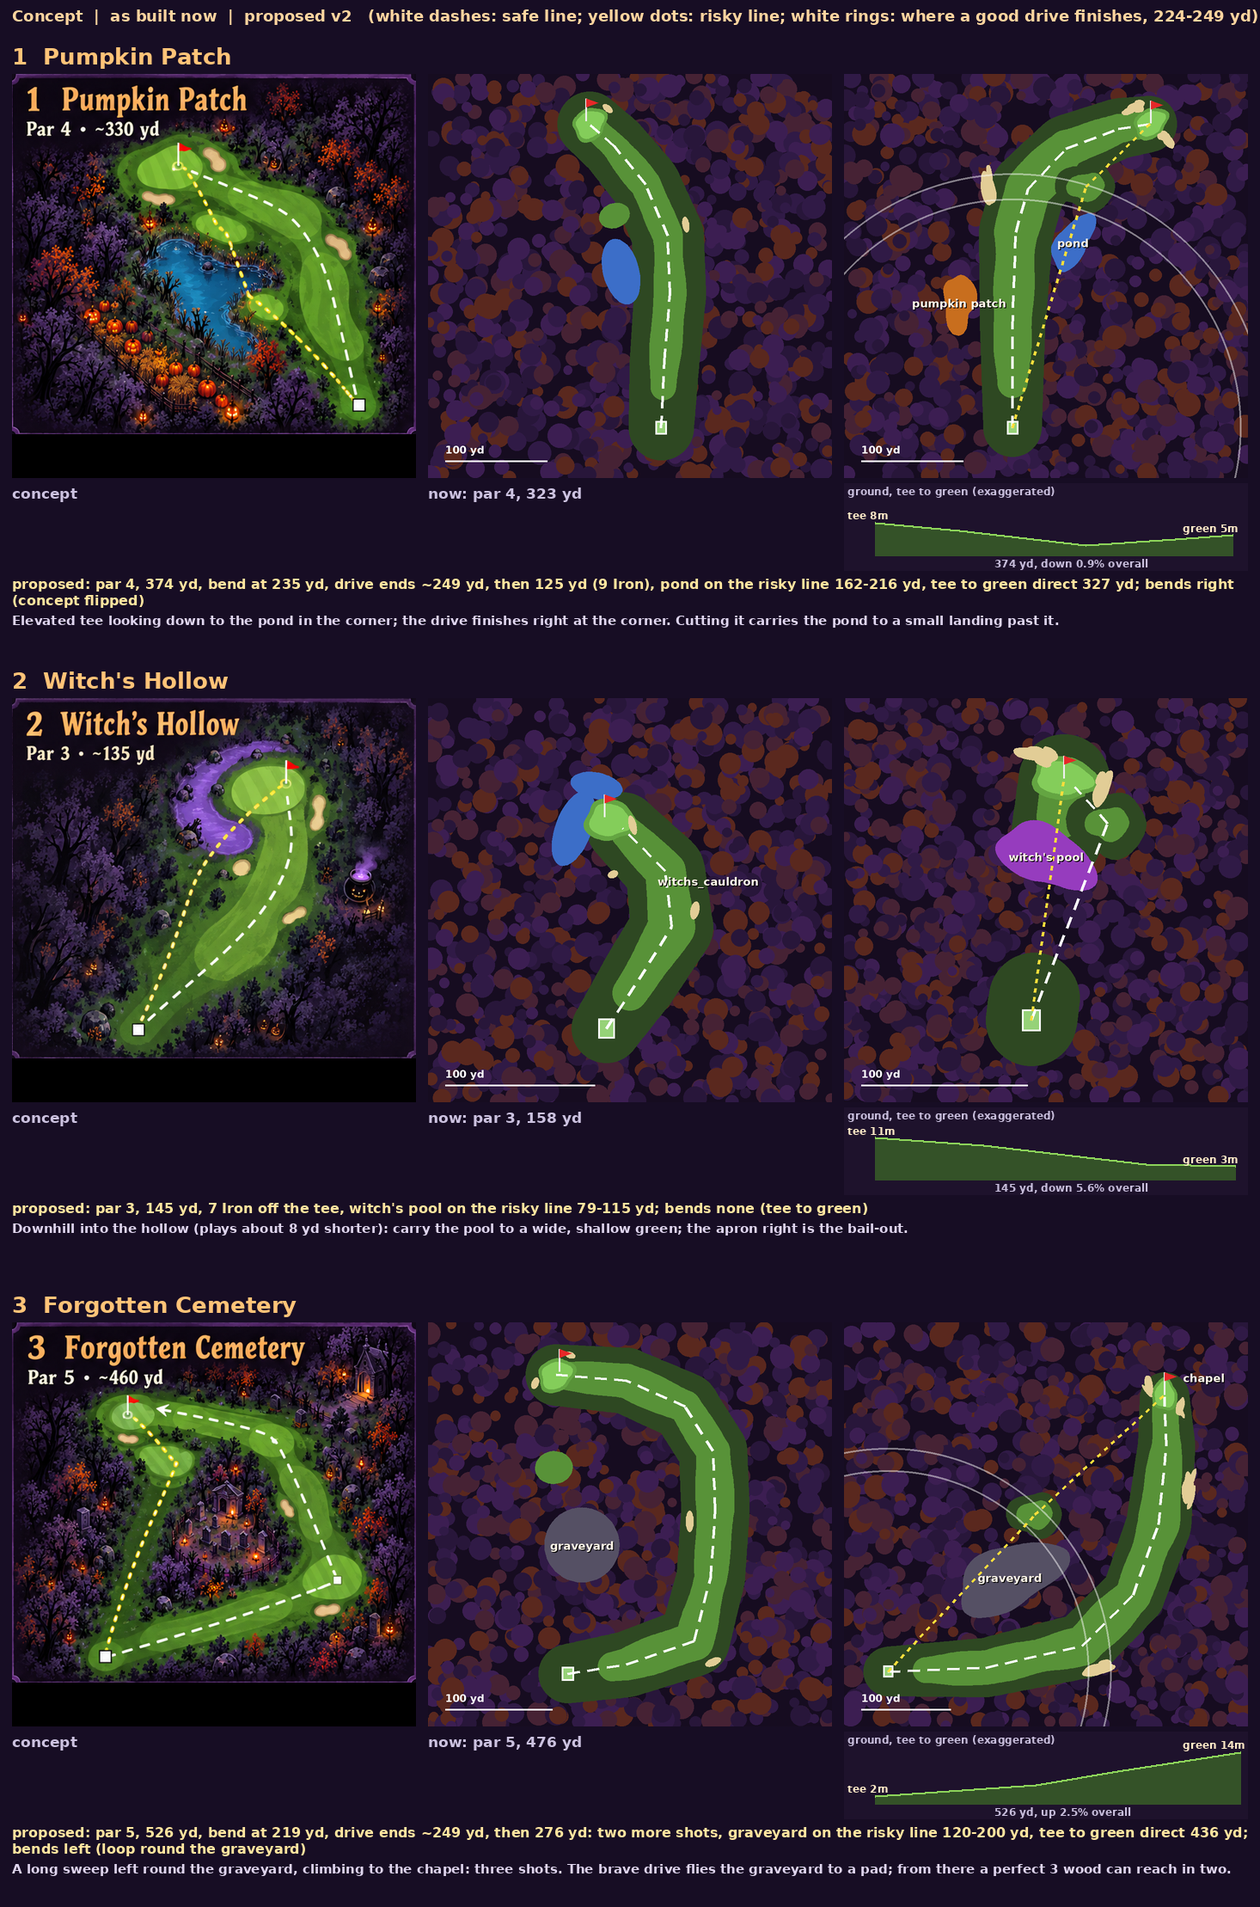
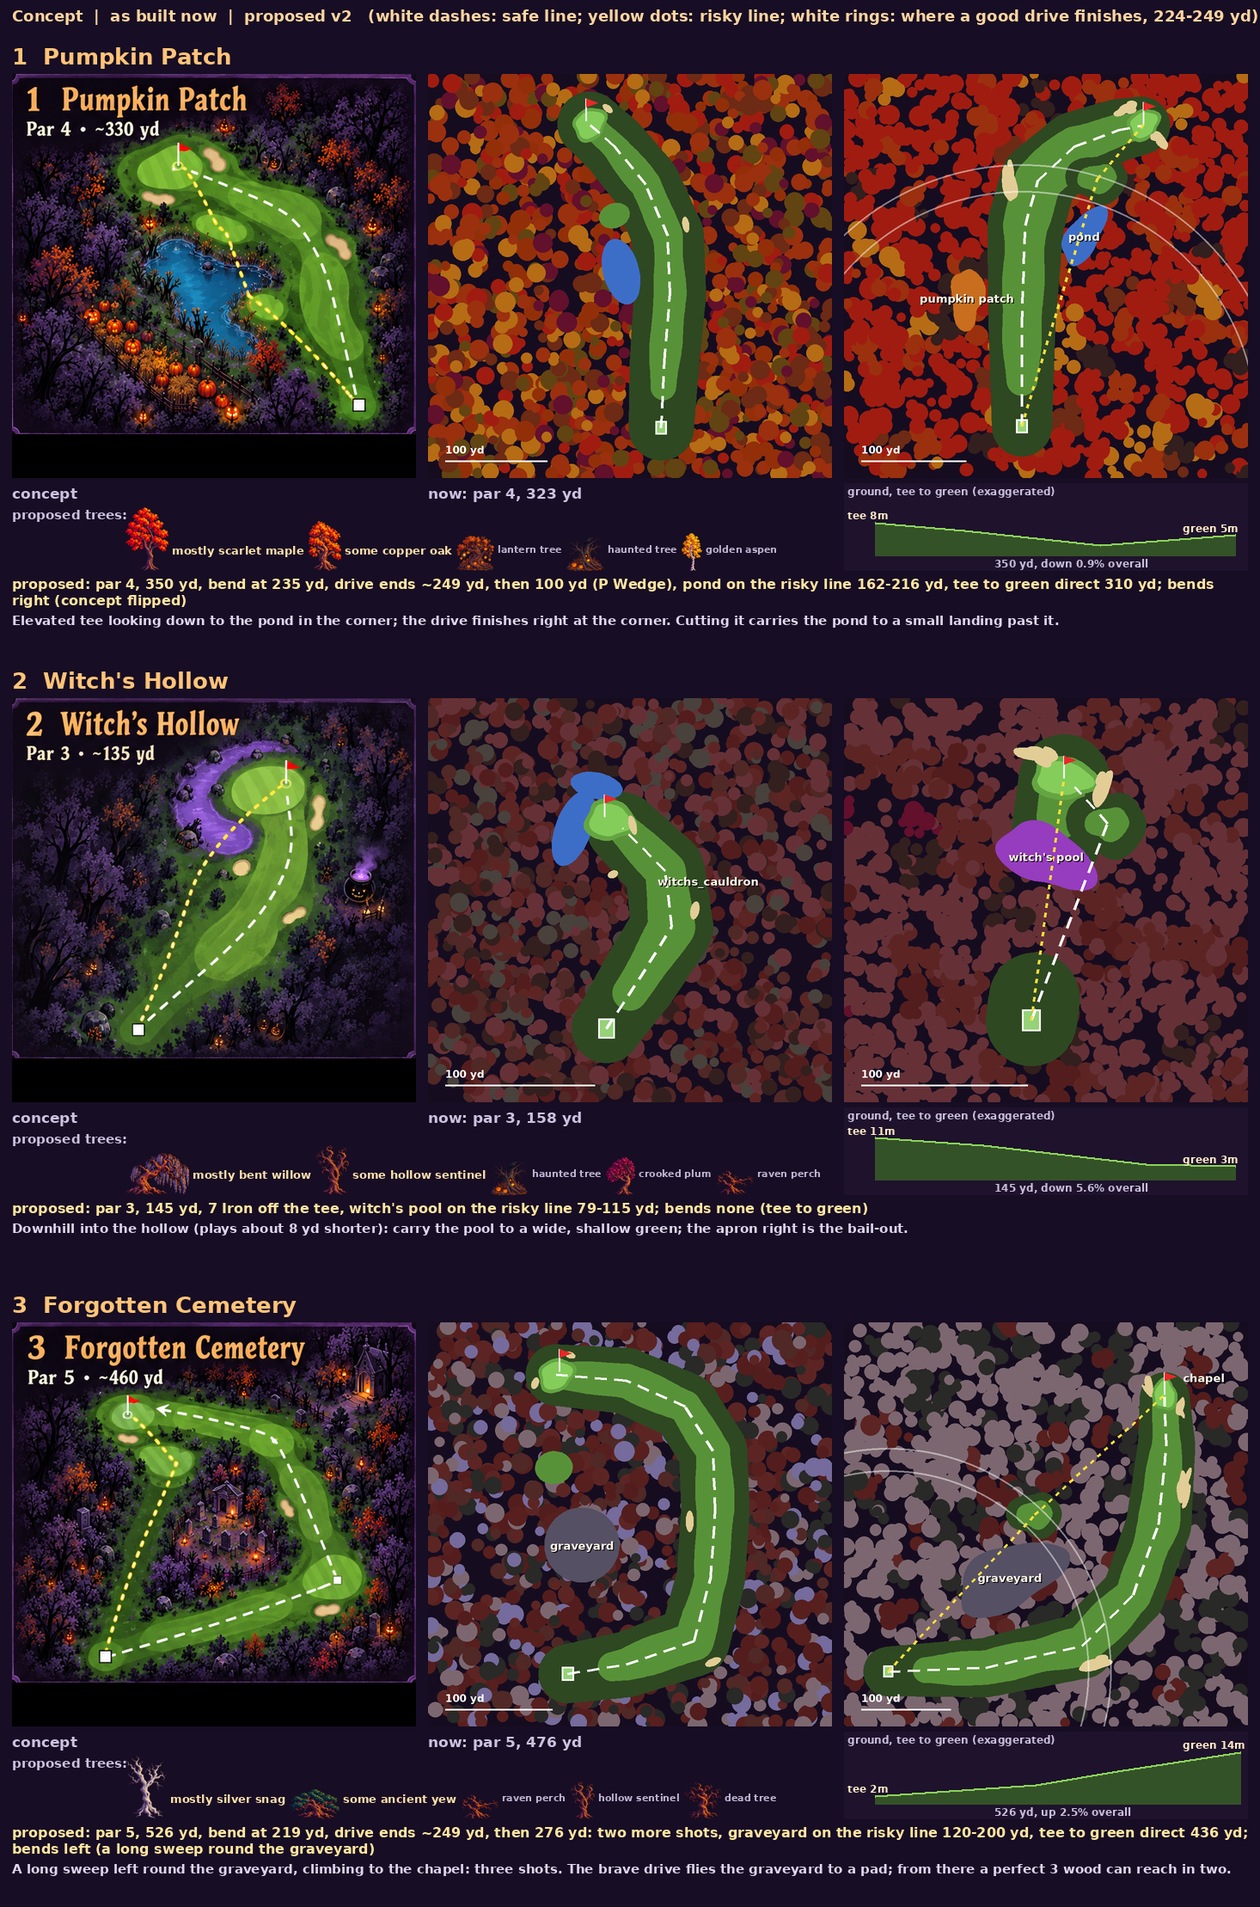
Hole plan v2, second check: par lengths varied, bunkers in play, greens sized to the approach, a dominant tree per hole
Claude-Session: https://claude.ai/code/session_01VAUjUguVX6tbdgmz3FqzWB

diff --git a/golf/tools/plan_holes2.py b/golf/tools/plan_holes2.py
@@ -2,6 +2,7 @@
 now, and the proposal (irregular hazards at real sizes, the band where a good drive finishes, the risky
 carries), with a side view of its ground from tee to green and the measured facts.
 usage: python3 -I plan_holes2.py <golf dir> <out dir>"""
+import json
 import math
 import os
 import random
@@ -13,7 +14,7 @@ sys_argv = list(sys.argv)
 sys.argv = ["x"]
 import plan_holes as P  # noqa: E402
 import check_plan as C  # noqa: E402,F401  (club helpers)
-GOLF, OUT = sys_argv[1], sys_argv[2]
+GOLF, OUT = (sys_argv[1], sys_argv[2]) if len(sys_argv) > 2 else (None, None)
 P.GOLF = GOLF
 
 YD = 1.0936
@@ -67,15 +68,15 @@ POND, PURPLE, BLOOD, MARSH, WEB, CORN, PATCH, GRAVE, HEDGE, RAVINE = P.POND, P.P
 # Greenside bunkers ~20-26 yd x 8-10 yd, fairway bunkers ~30-38 yd x 12 yd (real sizes).
 PLAN = {
     1: {"par": 4, "turn": "right (concept flipped)",
-        "path": [[0, 0], [0, 90], [3, 175], [14, 214], [48, 250], [95, 268], [122, 272]],
+        "path": [[0, 0], [0, 90], [3, 175], [14, 214], [46, 244], [84, 258], [104, 262]],
         "widths": [26, 32, 40, 40, 34, 28, 24], "fairway_start": 40,
-        "green": g([124, 273], [13, 10], 0.4),
-        "bunkers": [g([-22, 214], [6, 16], 0.15), g([108, 286], [10, 4], 0.35), g([139, 258], [9, 4], -0.9)],
+        "green": g([106, 263], [12, 10], 0.4),
+        "bunkers": [g([-11, 211], [6, 16], 0.15), g([90, 276], [10, 4], 0.35), g([121, 249], [9, 4], -0.9)],
         "hazards": [g([54, 166], [26, 15], 1.1, color=POND, label="pond"),
                     g([-48, 112], [14, 26], 0.1, color=PATCH, label="pumpkin patch")],
         "pads": [{"center": [66, 216], "radius": [17, 12], "rotation": 0.5}],
-        "risk": [[0, 0], [66, 216], [124, 273]],
-        "elev": [[0, 8.0], [80, 6.0], [200, 2.5], [285, 4.0], [340, 5.0]],
+        "risk": [[0, 0], [66, 216], [106, 263]],
+        "elev": [[0, 8.0], [80, 6.0], [200, 2.5], [270, 4.0], [320, 5.0]],
         "note": "Elevated tee looking down to the pond in the corner; the drive finishes right at the corner. "
                 "Cutting it carries the pond to a small landing past it."},
     2: {"par": 3, "turn": "none (tee to green)",
@@ -88,11 +89,11 @@ PLAN = {
         "elev": [[0, 11.0], [40, 9.0], [100, 4.0], [133, 3.5]],
         "note": "Downhill into the hollow (plays about 8 yd shorter): carry the pool to a wide, shallow green; "
                 "the apron right is the bail-out."},
-    3: {"par": 5, "turn": "left (loop round the graveyard)",
+    3: {"par": 5, "turn": "left (a long sweep round the graveyard)",
         "path": [[0, 0], [100, 4], [198, 26], [250, 78], [276, 150], [284, 230], [282, 280]],
         "widths": [24, 34, 40, 38, 40, 32, 24], "fairway_start": 38,
         "green": g([282, 282], [13, 10], 1.4),
-        "bunkers": [g([214, 2], [16, 6], 0.25), g([306, 186], [6, 16], 0.05), g([266, 292], [4, 10], 0.1),
+        "bunkers": [g([211, 7], [16, 6], 0.25), g([301, 187], [6, 16], 0.05), g([266, 292], [4, 10], 0.1),
                     g([298, 270], [4, 9], -0.2)],
         "hazards": [g([124, 96], [54, 34], 0.55, color=GRAVE, label="graveyard")],
         "pads": [{"center": [150, 160], "radius": [18, 14], "rotation": 0.6}],
@@ -105,31 +106,31 @@ PLAN = {
         "path": [[0, 0], [-2, 80], [-2, 170], [12, 212], [52, 232], [112, 238], [150, 240]],
         "widths": [24, 32, 40, 40, 34, 28, 24], "fairway_start": 36,
         "green": g([152, 241], [12, 10], 0.2),
-        "bunkers": [g([-28, 204], [6, 16], 0.15), g([134, 228], [10, 4], 0.35), g([168, 254], [9, 4], -0.6)],
+        "bunkers": [g([-16, 200], [6, 16], 0.15), g([134, 228], [10, 4], 0.35), g([168, 254], [9, 4], -0.6)],
         "hazards": [g([66, 122], [42, 52], 0.35, color=WEB, label="the web")],
         "risk": [[0, 0], [104, 226], [152, 241]],
         "elev": [[0, 3.0], [200, 7.0], [357, 10.5]],
         "note": "The L from the concept with the corner where a drive finishes; flying the web's corner is a "
                 "full carry."},
     5: {"par": 5, "turn": "right, then a little left (S)",
-        "path": [[0, 0], [12, 100], [40, 196], [95, 246], [132, 306], [142, 372], [168, 436]],
+        "path": [[0, 0], [12, 100], [40, 196], [95, 246], [132, 306], [142, 372], [160, 418]],
         "widths": [24, 34, 42, 38, 42, 32, 24], "fairway_start": 40,
-        "green": g([170, 437], [13, 10], -0.3),
-        "bunkers": [g([150, 428], [10, 4], 0.9), g([187, 450], [9, 4], -0.4), g([44, 232], [6, 16], -0.8),
-                    g([162, 330], [6, 15], 0.1)],
+        "green": g([162, 420], [12, 10], -0.3),
+        "bunkers": [g([144, 411], [10, 4], 0.9), g([180, 433], [9, 4], -0.4), g([44, 232], [6, 16], -0.8),
+                    g([158, 331], [6, 15], 0.1)],
         "hazards": [g([88, 330], [22, 46], -0.3, color=CORN, label="corn maze")],
-        "features": [{"pos": [192, 476], "label": "barn"}],
-        "elev": [[0, 8.0], [100, 6.0], [240, 2.0], [360, 4.0], [476, 6.5]],
+        "features": [{"pos": [186, 458], "label": "barn"}],
+        "elev": [[0, 8.0], [100, 6.0], [240, 2.0], [360, 4.0], [462, 6.5]],
         "note": "Three shots down the long diagonal through the farm: a bend at the drive, then the corn "
                 "maze all down the left of the second shot and the barn behind the green."},
     6: {"par": 3, "turn": "none (tee to green)",
         "path": [[0, 0], [-18, 158]], "widths": [24, 24], "fairway_start": 138,
-        "green": g([-18, 159], [13, 10], 0.3),
+        "green": g([-18, 159], [10, 14], 0.1),
         "bunkers": [g([-36, 170], [10, 4], 0.6), g([2, 172], [9, 4], -0.5)],
         "hazards": [{"line": [[-120, 70], [-80, 104], [-40, 118], [-6, 124], [16, 134]], "width": 18,
                      "color": MARSH, "label": "marsh"}],
-        "pads": [{"center": [34, 146], "radius": [12, 9], "rotation": -0.4}],
-        "risk": [[0, 0], [-18, 159]], "safe": [[0, 0], [36, 126], [32, 144]],
+        "pads": [{"center": [12, 160], "radius": [10, 8], "rotation": 0.2}],
+        "risk": [[0, 0], [-18, 159]], "safe": [[0, 0], [30, 126], [12, 158]],
         "elev": [[0, 7.0], [60, 4.0], [110, 2.2], [158, 2.6]],
         "note": "Downhill over the marsh, which crosses in front of the green from the left (hole 2's water is "
                 "on the right); a long iron to a bail-out apron right."},
@@ -137,7 +138,7 @@ PLAN = {
         "path": [[0, 0], [5, 80], [10, 160], [-6, 220], [-52, 262], [-100, 278]],
         "widths": [24, 32, 40, 38, 30, 24], "fairway_start": 34,
         "green": g([-102, 280], [13, 10], 0.4),
-        "bunkers": [g([-86, 296], [10, 4], -0.4), g([-120, 264], [9, 4], 0.9), g([30, 196], [6, 16], -0.2)],
+        "bunkers": [g([-86, 296], [10, 4], -0.4), g([-120, 264], [9, 4], 0.9), g([24, 195], [6, 16], -0.2)],
         "hazards": [g([-38, 180], [18, 26], 0.35, color=BLOOD, label="blood pond"),
                     g([80, 170], [24, 80], 0.0, color=HEDGE, label="hedge maze")],
         "features": [{"pos": [-120, 324], "label": "mansion"}],
@@ -146,31 +147,72 @@ PLAN = {
         "note": "Uphill dogleg left to the mansion; the blood pond fills the corner, so cutting it is a near-"
                 "full carry; the hedge maze lines the right."},
     8: {"par": 4, "turn": "straight, split fairway",
-        "path": [[0, 0], [8, 90], [22, 175], [34, 240], [40, 300], [30, 372]],
+        "path": [[0, 0], [8, 90], [22, 175], [34, 240], [40, 300], [34, 394]],
         "widths": [24, 34, 42, 34, 32, 24], "fairway_start": 36,
-        "extra_fairways": [[[[6, 110], [-26, 190], [-30, 270], [16, 362]], [28, 30, 28, 24]]],
-        "green": g([30, 374], [12, 10], -0.2),
-        "bunkers": [g([14, 386], [10, 4], 0.4), g([46, 362], [9, 4], -0.6), g([60, 200], [6, 15], 0.1)],
+        "extra_fairways": [[[[6, 110], [-26, 190], [-30, 270], [18, 384]], [28, 30, 28, 24]]],
+        "green": g([34, 396], [11, 15], -0.1),
+        "bunkers": [g([16, 404], [4, 10], 0.1), g([52, 388], [4, 10], -0.2), g([49, 202], [6, 15], 0.1)],
         "hazards": [{"line": [[-150, 322], [-60, 296], [0, 280], [60, 262], [160, 232]], "width": 22,
                      "color": RAVINE, "label": "ravine"}],
         "features": [{"pos": [-92, 326], "label": "Horseman"}],
-        "risk": [[0, 0], [-24, 190], [-28, 270], [30, 374]],
-        "elev": [[0, 9.0], [200, 6.0], [262, 3.5], [300, 6.0], [379, 10.0]],
-        "note": "The ravine crosses beyond a drive's reach (~295 yd), so you lay up and carry it with the "
-                "second; the left fairway is shorter but narrower, past the Horseman."},
+        "risk": [[0, 0], [-24, 190], [-28, 270], [34, 396]],
+        "elev": [[0, 9.0], [200, 6.5], [255, 4.5], [275, 3.5], [300, 6.0], [400, 10.0]],
+        "note": "The long par 4. The ravine crosses beyond a drive's reach (~300 yd), so you lay up and carry it "
+                "with a long iron to the biggest green; the left fairway is narrower, past the Horseman."},
     9: {"par": 4, "turn": "hard left (horseshoe)",
         "path": [[0, 0], [45, 65], [88, 128], [104, 182], [86, 226], [46, 246], [8, 242]],
         "widths": [24, 32, 40, 38, 32, 28, 24], "fairway_start": 34,
         "green": g([6, 243], [13, 10], 0.1),
-        "bunkers": [g([-10, 232], [9, 4], 0.9), g([18, 258], [10, 4], -0.2), g([126, 150], [6, 16], 0.2)],
-        "hazards": [g([28, 150], [24, 42], -0.2, color=PATCH, label="pumpkin patch")],
-        "pads": [{"center": [14, 204], "radius": [15, 11], "rotation": 0.1}],
+        "bunkers": [g([-10, 232], [9, 4], 0.9), g([18, 258], [10, 4], -0.2), g([119, 152], [6, 16], 0.2)],
+        "hazards": [g([28, 158], [24, 44], -0.2, color=PATCH, label="pumpkin patch")],
+        "pads": [{"center": [16, 212], "radius": [12, 9], "rotation": 0.1}],
         "features": [{"pos": [-4, 284], "label": "home"}],
-        "risk": [[0, 0], [14, 204], [6, 243]],
+        "risk": [[0, 0], [16, 212], [6, 243]],
         "elev": [[0, 12.0], [120, 8.0], [210, 5.0], [342, 7.5]],
         "note": "From a high tee the safe drive goes right round the patch, then a short iron back left to "
                 "the green by the house. The brave drive flies the patch to a landing just short of the green."},
 }
+
+
+# Trees: the dominant kind sets the hole's look (about 6 in 10, standing in groves), a second kind
+# about 1 in 4, accents for the rest; the far woods follow the same mix with a conifer behind.
+TREES = {
+    1: ("tree_scarlet_maple", "tree_copper_oak", ["lantern_tree", "haunted_tree", "tree_golden_aspen"]),
+    2: ("tree_bent_willow", "tree_hollow_sentinel", ["haunted_tree", "tree_crooked_plum", "tree_raven_perch"]),
+    3: ("tree_silver_snag", "tree_ancient_yew", ["tree_raven_perch", "tree_hollow_sentinel", "dead_tree"]),
+    4: ("tree_moonlit_pine", "pine_blue", ["tree_ghost_birch", "dead_tree", "tree_hollow_sentinel"]),
+    5: ("tree_harvest_pear", "apple_tree", ["tree_copper_oak", "maple_orange", "tree_golden_aspen"]),
+    6: ("tree_twisted_cypress", "tree_bent_willow", ["dead_tree", "tree_raven_perch", "tree_ghost_birch"]),
+    7: ("tree_crooked_plum", "tree_ancient_yew", ["tree_twisted_cypress", "tree_hollow_sentinel", "tree_scarlet_maple"]),
+    8: ("tree_lightning_oak", "tree_windbent_fir", ["dead_tree", "tree_raven_perch", "tree_silver_snag"]),
+    9: ("tree_golden_aspen", "maple_orange", ["lantern_tree", "birch", "tree_copper_oak"]),
+}
+CARDS = None
+_COL = {}
+
+
+def tree_colour(name):
+    """The average colour of a tree card's crown (its top two thirds), for the map."""
+    if name not in _COL:
+        im = Image.open(os.path.join(CARDS, name + ".png")).convert("RGBA")
+        im = im.crop((0, 0, im.width, im.height * 2 // 3)).resize((40, 40))
+        px = [p[:3] for p in im.get_flattened_data() if p[3] > 200]
+        _COL[name] = tuple(int(sum(c[k] for c in px) / len(px) * 0.8) for k in range(3))
+    return _COL[name]
+
+
+def now_trees(i):
+    th = json.load(open(os.path.join(GOLF, "courses", "holes", P.FILES[i])))["theme"]
+    return th["trees_near"]
+
+
+def grove_pick(i, x, y, rnd):
+    """Which tree stands at (x, y) on the proposed hole: groves (about 25 m across) of one kind."""
+    dom, sec, acc = TREES[i]
+    gx, gy = math.floor(x / 25.0), math.floor(y / 25.0)
+    r = random.Random(gx * 7919 + gy * 104729 + i).random()
+    kind = dom if r < 0.6 else (sec if r < 0.85 else acc[int(r * 1000) % len(acc)])
+    return kind if rnd.random() < 0.85 else dom
 
 
 def carry_over(line, hazard):
@@ -234,7 +276,7 @@ def facts(p):
     return ", ".join(out)
 
 
-def draw(spec, title, proposal):
+def draw(spec, title, proposal, hole=None):
     pts = list(spec["path"])
     for h in spec.get("hazards", []):
         pts += P.ellipse_pts(h["center"], h["radius"], h.get("rotation", 0)) if "center" in h else h["line"]
@@ -252,10 +294,16 @@ def draw(spec, title, proposal):
     img = Image.new("RGB", (S, S), (22, 12, 32))
     d = ImageDraw.Draw(img, "RGBA")
     rnd = random.Random(hash(title) & 0xffff)
-    for _ in range(int(S * S / 900)):
+    pool = now_trees(hole) if hole and not proposal else None
+    for _ in range(int(S * S / 700)):
         x, y = rnd.uniform(0, S), rnd.uniform(0, S)
-        r = rnd.uniform(5, 14) * SS
-        d.ellipse([x - r, y - r, x + r, y + r], fill=rnd.choice([(48, 26, 70), (60, 30, 82), (40, 22, 58), (90, 40, 30), (70, 34, 52)]))
+        r = rnd.uniform(5, 12) * SS
+        if hole is None:
+            col = rnd.choice([(48, 26, 70), (60, 30, 82), (40, 22, 58), (90, 40, 30), (70, 34, 52)])
+        else:
+            wx, wy = (x - S / 2) / k + cx, (S / 2 - y) / k + cy
+            col = tree_colour(grove_pick(hole, wx, wy, rnd) if proposal else rnd.choice(pool))
+        d.ellipse([x - r, y - r, x + r, y + r], fill=col)
     rough = spec.get("rough", 13)
     fairways = [(spec["path"], spec["widths"], spec.get("fairway_start", 34), True)] + \
         [(fp, fw, 0, False) for fp, fw in spec.get("extra_fairways", [])]
@@ -380,6 +428,8 @@ def profile(p, w, h):
 
 
 def main():
+    global CARDS
+    CARDS = os.path.join(GOLF, "game", "assets", "cards")
     P.main.__globals__["GOLF"] = GOLF
     A = Image.open(os.path.join(GOLF, "art_src/redesign/08_Course_Layout_Concepts/Revised_Holes_2_4_6_9_Concepts_v1.png")).convert("RGB")
     B = Image.open(os.path.join(GOLF, "art_src/redesign/08_Course_Layout_Concepts/Revised_Holes_1_3_5_7_Concepts_v1.png")).convert("RGB")
@@ -392,8 +442,8 @@ def main():
     for i in range(1, 10):
         now = P.current(P.FILES[i])
         p = PLAN[i]
-        img_now = draw(now, "now%d" % i, False)
-        img_new = draw(p, "new%d" % i, True)
+        img_now = draw(now, "now%d" % i, False, i)
+        img_new = draw(p, "new%d" % i, True, i)
         gap, head, prof_h, foot = 14, 46, 110, 100
         row = Image.new("RGB", (3 * PX + 4 * gap, PX + head + prof_h + foot), (23, 13, 36))
         d = ImageDraw.Draw(row)
@@ -406,6 +456,19 @@ def main():
         d.text((gap, head + PX + 8), "concept", fill=(205, 195, 225), font=font(17))
         d.text((2 * gap + PX, head + PX + 8), "now: par %d, %d yd" % (now["par"], P.length(now["path"]) * YD),
                fill=(205, 195, 225), font=font(17))
+        dom, sec, acc = TREES[i]
+        x = gap
+        d.text((x, head + PX + 34), "proposed trees:", fill=(205, 195, 225), font=font(15))
+        x += 132
+        for n, (name, h, tag) in enumerate([(dom, 74, "mostly"), (sec, 58, "some")] + [(a, 44, "") for a in acc]):
+            im = Image.open(os.path.join(CARDS, name + ".png")).convert("RGBA")
+            im.thumbnail((h, h))
+            row.paste(im, (x, head + PX + prof_h - im.height - 2), im)
+            label = name.replace("tree_", "").replace("_", " ")
+            f = font(13 if n < 2 else 11)
+            d.text((x + im.width + 4, head + PX + prof_h - 34), (tag + " " if tag else "") + label,
+                   fill=(255, 225, 170) if n < 2 else (190, 180, 210), font=f)
+            x += im.width + 10 + int(d.textlength((tag + " " if tag else "") + label, font=f))
         y = head + PX + prof_h + 4
         for text, col, f in [("proposed: " + facts(p) + "; bends " + p["turn"], (255, 230, 160), font(16)),
                              (p["note"], (225, 215, 240), font(15))]:
@@ -434,7 +497,8 @@ def main():
         print(i, facts(PLAN[i]))
 
 
-main()
+if __name__ == "__main__":
+    main()
 
 
 def clashes():
@@ -453,4 +517,5 @@ def clashes():
                 print("  hole %d: bunker at %s sits %.0f m inside the fairway" % (i, h["center"], -worst))
 
 
-clashes()
+if __name__ == "__main__":
+    clashes()

diff --git a/golf/tools/check_plan2.py b/golf/tools/check_plan2.py
@@ -1,0 +1,66 @@
+"""Second check of plan v2: landing widths, green depth against the approach, where the bunkers sit
+round the green, fairway bunkers against the drive, slope where the ball lands, pads, totals."""
+import io, math, sys, contextlib
+with contextlib.redirect_stdout(io.StringIO()):
+    import plan_holes2 as Q
+    import check_plan as C
+P, PLAN, YD = Q.P, Q.PLAN, Q.YD
+
+
+def point_at(path, s):
+    return C.along(path, s)[0]
+
+
+def elev(el, s):
+    for (s0, z0), (s1, z1) in zip(el, el[1:]):
+        if s <= s1:
+            return z0 + (z1 - z0) * (s - s0) / (s1 - s0)
+    return el[-1][1]
+
+
+def green_depth(g, ang):
+    """Depth of the green ellipse along heading ang (m)."""
+    rx, ry = g["radius"]
+    r = g.get("rotation", 0)
+    a = ang - r
+    return 2 / math.sqrt((math.cos(a) / rx) ** 2 + (math.sin(a) / ry) ** 2)
+
+
+tot = 0
+for i, p in PLAN.items():
+    path, L = p["path"], P.length(p["path"])
+    tot += L * YD
+    g = p["green"]
+    print("\n%d %s par %d %d yd" % (i, P.NAMES[i], p["par"], L * YD))
+    if p["par"] == 3:
+        frm = path[0]
+        app = L
+    else:
+        frm = point_at(path, Q.DRIVE_END)
+        app = L - Q.DRIVE_END
+        w = [C.width_at(path, p["widths"], s) * YD for s in (190, 210, 230, 250)]
+        print("   fairway width 190/210/230/250 m out: %s yd" % "/".join("%d" % x for x in w))
+        sl = [(elev(p["elev"], s + 15) - elev(p["elev"], s - 15)) / 30 * 100 for s in (205, 228)]
+        print("   ground in the landing area: %+.1f%% / %+.1f%%" % tuple(sl))
+    ang = math.atan2(g["center"][1] - frm[1], g["center"][0] - frm[0])
+    dep = green_depth(g, ang) * YD
+    wid = green_depth(g, ang + math.pi / 2) * YD
+    print("   approach %d yd (%s): green %d yd deep x %d yd wide along that line, %.0f sq ft" % (
+        app * YD, C.club_for(app), dep, wid, math.pi * g["radius"][0] * g["radius"][1] * 10.764))
+    for b in p["bunkers"]:
+        bx, by = b["center"]
+        d_g = math.dist(b["center"], g["center"])
+        if d_g < 35:
+            rel = math.degrees((math.atan2(by - g["center"][1], bx - g["center"][0]) - ang + math.pi) % (2 * math.pi) - math.pi)
+            side = "behind" if abs(rel) < 45 else ("front" if abs(rel) > 135 else ("left" if rel > 0 else "right"))
+            print("   greenside bunker %s of the green (%d deg)  %dx%d yd" % (side, rel, 2 * b["radius"][0] * YD, 2 * b["radius"][1] * YD))
+        else:
+            # distance from tee along the hole and lateral offset
+            best = min(((math.dist(b["center"], (x, y)), k) for k, (x, y, w_) in enumerate(P.densify(path, p["widths"], 1.0))))
+            s = best[1] * 1.0
+            print("   fairway bunker %d yd from the tee, %d m off the centre line" % (math.dist(path[0], b["center"]) * YD, best[0]))
+    for pad in p.get("pads", []):
+        print("   pad %dx%d yd at %d yd from the tee, %d yd to the green" % (
+            2 * pad["radius"][0] * YD, 2 * pad["radius"][1] * YD, math.dist(path[0], pad["center"]) * YD,
+            math.dist(pad["center"], g["center"]) * YD))
+print("\ntotal %d yd, par %d" % (tot, sum(p["par"] for p in PLAN.values())))
